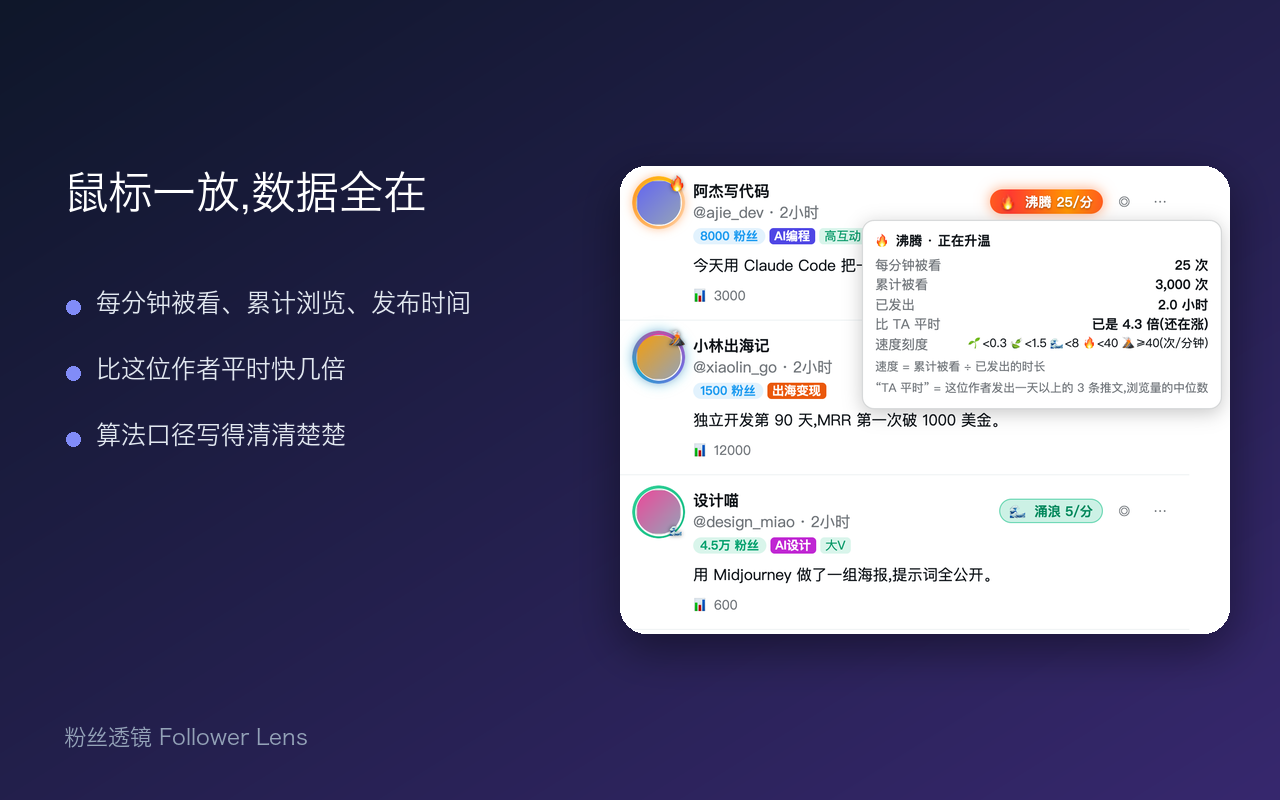
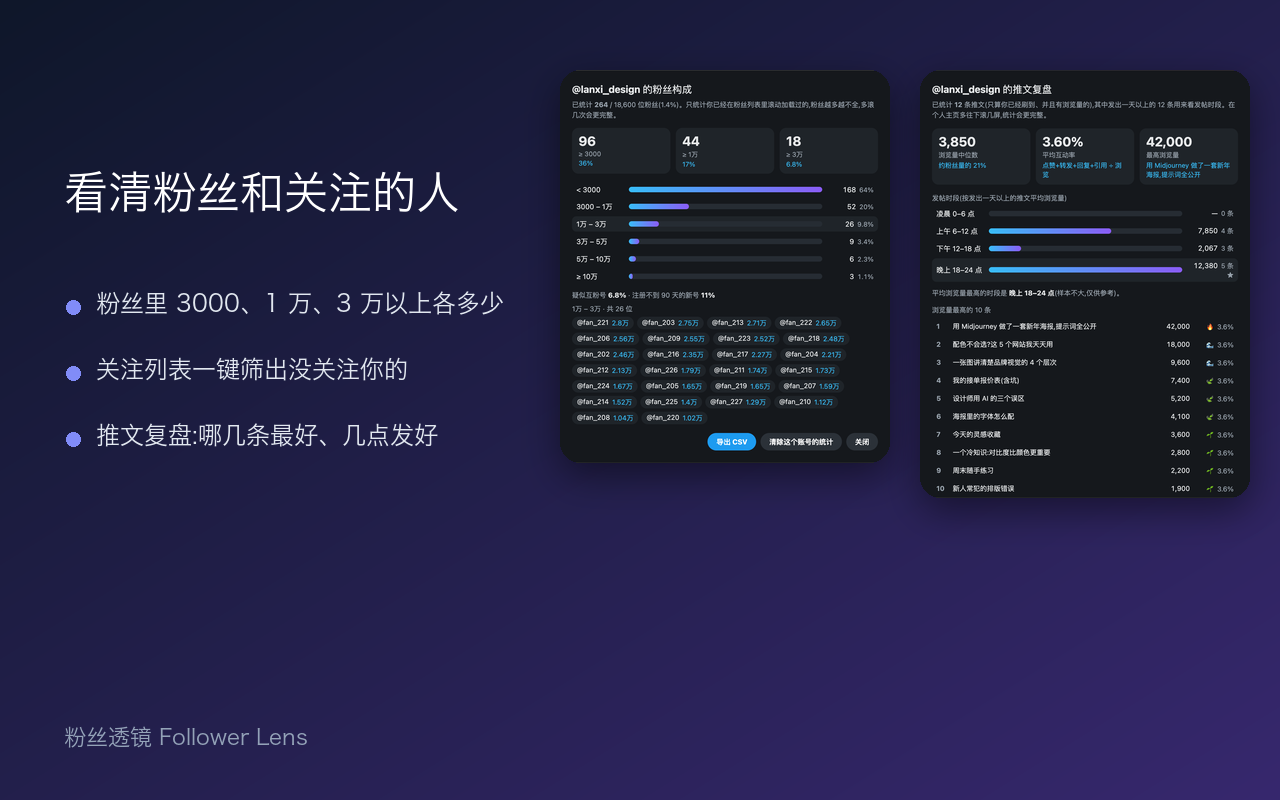
v0.22.1: 通知页的新粉丝信息放到通知下面一行(不动 X 自己的版式);商店材料同步(摘要、说明、隐私/权限理由、第 3/5 张截图);填表助手改成由 listing.md 生成;.gitignore 忽略安装包

diff --git a/store/上架填表助手.html b/store/上架填表助手.html
@@ -17,15 +17,15 @@ code{background:rgba(127,127,127,.15);padding:1px 6px;border-radius:5px;font-siz
 
 <div class="step"><h2><span>1</span>打开后台,上传安装包</h2>
 <ol><li>点这里打开:<a href="https://chrome.google.com/webstore/devconsole" target="_blank">Chrome 应用商店开发者后台</a>(确认登录的是 yaohongan2021 那个账号)</li>
-<li>如果后台已经有"粉丝透镜"(之前提交过 0.2.3):点进它 → 左侧 <b>"软件包"</b> → <b>"上传新软件包"</b>。<b>若状态是"审核中"就不能上传</b>,要等出结果,或先在状态旁撤回审核。没有就点 <b>"新增商品"</b></li>
-<li>把这个文件拖进去:<code>x-follower-lens-0.17.0.zip</code>(我已经在 Finder 里给你选中了,在 <code>x-follower-lens/dist</code> 文件夹)</li></ol></div>
+<li>如果后台已经有"粉丝透镜"(之前提交过旧版):点进它 → 左侧 <b>"软件包"</b> → <b>"上传新软件包"</b>。<b>若状态是"审核中"就不能上传</b>,要等出结果,或先在状态旁撤回审核。没有就点 <b>"新增商品"</b></li>
+<li>把这个文件拖进去:<code>x-follower-lens-0.22.1.zip</code>(就在这个文件夹里)</li></ol></div>
 
 <div class="step"><h2><span>2</span>"商品详情"页</h2><p class="hint">没有写到的格子,保持默认。</p>
 <div class="f"><div class="fh"><b>名称</b><button onclick="cp(0,this)">复制</button></div><pre id="v0"></pre></div><div class="f"><div class="fh"><b>摘要(简短说明)</b><button onclick="cp(1,this)">复制</button></div><pre id="v1"></pre></div><div class="f"><div class="fh"><b>详细说明(中文)</b><button onclick="cp(2,this)">复制</button></div><pre id="v2"></pre></div>
 <ul><li><b>类别</b>:选"工具"。<b>语言</b>:中文(简体)</li>
-<li><b>图标</b>:上传 <code>x-follower-lens/icons/icon128.png</code></li>
-<li><b>截图</b>(一次选 5 张):<code>x-follower-lens/store</code> 文件夹里的 <code>screenshot-1.png</code> 到 <code>screenshot-5.png</code></li>
-<li><b>小宣传图</b>:<code>x-follower-lens/store/promo-440x280.png</code></li></ul>
+<li><b>图标</b>:上传 <code>截图/icon128.png</code></li>
+<li><b>截图</b>(一次选 5 张):<code>截图</code> 文件夹里的 <code>screenshot-1.png</code> 到 <code>screenshot-5.png</code>(共 5 张,1280×800)</li>
+<li><b>小宣传图</b>:<code>截图/promo-440x280.png</code></li></ul>
 <div class="f"><div class="fh"><b>主页 URL</b><button onclick="cp(3,this)">复制</button></div><pre id="v3"></pre></div><div class="f"><div class="fh"><b>支持 URL</b><button onclick="cp(4,this)">复制</button></div><pre id="v4"></pre></div></div>
 
 <div class="step"><h2><span>3</span>"隐私规范"页 <small style="color:var(--muted)">(最容易卡住,仔细点)</small></h2>
@@ -41,7 +41,7 @@ code{background:rgba(127,127,127,.15);padding:1px 6px;border-radius:5px;font-siz
 <div class="warn">审核通常需要等一段时间,期间会发邮件到你的 Google 邮箱。被拒也很常见,把邮件里的拒绝原因发给我,我来改。</div></div>
 </main>
 <script>
-const V=["粉丝透镜 Follower Lens", "在 X 信息流里显示推文流速、头像流速环和内容方向标签,还能一键生成账号名片;同时显示粉丝数和质量标签。", "X 不直接显示别人的粉丝数,也看不出一条推文到底火没火。粉丝透镜把这些直接放到信息流里:\n\n【主要功能】\n• 推文流速:标出每条推文每分钟被看多少次,萌芽 / 起风 / 涌浪 / 沸腾 / 喷发 五档(如 🔥 沸腾 17/分),和账号粉丝多少无关,带 ↗↘ 升温降温趋势;鼠标放上去看累计浏览、发布多久,以及比这位作者平时快几倍\n• 头像流速环:作者头像按这条推文的流速加一圈环,每一档一个造型(默认静态,不晃眼;设置里可以让它转起来)\n• 内容方向标签:按账号简介和刷到的推文,标出这个博主主要做什么(AI编程、智能体、AI视频、AI设计、出海变现、投资……),每个方向一种颜色,词典可自定义\n• 账号名片:在个人主页一键生成带头像、主页地址和\"粉丝质量指数\"的图片,三种风格,可下载或复制后直接发到 X\n• 粉丝数徽标:信息流、关注列表、粉丝列表里,每个账号旁边直接显示粉丝数\n• 质量标签:互关 / 关注了你 / 大V / 高互动 / 低活跃 / 疑似互粉号 / 新号 / 老号\n• 悬停详情卡:精确粉丝数、关注数、粉丝/关注比、推文数、注册时间、互动率\n• 粉丝数变化:在你的浏览器本地记录你刷到过的账号,显示\"近 7 天涨了多少\"\n• 自适应布局:不遮挡时间、订阅按钮;头部太挤时自动换行;设置面板里每个功能都能单独开关\n\n【隐私】\n• 不收集、不上传、不出售任何数据,没有统计和广告代码\n• 只读取 X 网页自己已经收到的数据,不主动发出数据请求;唯一的例外:你点\"生成账号名片\"时会读取该账号的头像图片(来自 X 自己的图片服务器),只用于在本地画图\n• 设置和粉丝数历史只保存在你浏览器本地,可随时在设置面板里清除\n• 开源:https://github.com/yaohongan/x-follower-lens\n\n【说明】\n流速、标签和\"粉丝质量指数\"都是用公开数字做的估算,仅供参考,不代表内容或账号的质量。本扩展是个人开发的非官方工具,与 X Corp. 无关。X 改版后可能需要更新。", "https://github.com/yaohongan/x-follower-lens", "https://github.com/yaohongan/x-follower-lens/issues", "在 X(Twitter)网页上显示账号的粉丝数和质量标签,帮助用户判断账号。", "保存用户的设置(各开关、徽标位置)以及用户本地的粉丝数历史记录,用于显示\"近 7 天变化\"。数据只保存在本地,不上传。", "扩展只在 x.com 和 twitter.com 运行。它读取 X 网页自己已经收到的数据(用户名、粉丝数、关注数、注册时间、互动数),并在页面上显示徽标。不读取任何其它网站。", "扩展只在 x.com 和 twitter.com 运行。它读取 X 网页自己已经收到的数据(用户名、粉丝数、关注数、注册时间、浏览量、互动数),并在页面上显示徽标、流速标和头像环。用户点击\"生成账号名片\"时,会读取该账号的头像图片(来自 X 自己的图片服务器),只用于在本地画图。不读取任何其它网站。"];
+const V=["粉丝透镜 Follower Lens", "在 X 里显示推文流速、头像流速环、账号状态和内容方向标签;能分析粉丝构成、关注列表和推文表现,新粉丝大号高亮,还能一键生成账号名片;同时显示粉丝数和质量标签。", "X 不直接显示别人的粉丝数,也看不出一条推文到底火没火。粉丝透镜把这些直接放到信息流里:\n\n【主要功能】\n• 推文流速:标出每条推文每分钟被看多少次,萌芽 / 起风 / 涌浪 / 沸腾 / 喷发 五档(如 🔥 沸腾 17/分),和账号粉丝多少无关,带 ↗↘ 升温降温趋势;鼠标放上去看累计浏览、发布多久,以及比这位作者平时快几倍\n• 头像流速环:作者头像按这条推文的流速加一圈环,每一档一个造型(默认静态,不晃眼;设置里可以让它转起来)\n• 内容方向标签:按账号简介和刷到的推文,标出这个博主主要做什么(AI编程、智能体、AI视频、AI设计、出海变现、投资……),每个方向一种颜色,词典可自定义\n• 账号状态:鼠标放在徽标上,看这个账号有没有受保护、风险提示、认证类型等标记(只读页面自带数据)\n• 评论区标记:大 V 的回复高亮,低质量回复可选淡化\n• 新粉丝提醒:通知页里,每位新关注你的人旁边显示粉丝数和标签,大号高亮(只读页面里已有的通知数据)\n• 关注列表分析:在\"正在关注\"列表页按\"没关注你\"\"疑似互粉号\"\"新号\"等筛选、排序、导出 CSV(只统计你滚动加载过的,数据只存本地)\n• 推文复盘:个人主页上看这个账号你刷到过的推文——哪几条最好、什么时段发得最好(只用页面里已有的数据)\n• 粉丝构成:在\"关注者\"列表页统计粉丝里有多少人 3000 粉以上、1 万以上等,可导出 CSV(只统计你滚动加载过的,数据只存本地)\n• 账号名片:在个人主页一键生成带头像、主页地址和\"粉丝质量指数\"的图片,三种风格,可下载或复制后直接发到 X\n• 粉丝数徽标:信息流、关注列表、粉丝列表里,每个账号旁边直接显示粉丝数\n• 质量标签:互关 / 关注了你 / 大V / 高互动 / 低活跃 / 疑似互粉号 / 新号 / 老号\n• 悬停详情卡:精确粉丝数、关注数、粉丝/关注比、推文数、注册时间、互动率\n• 粉丝数变化:在你的浏览器本地记录你刷到过的账号,显示\"近 7 天涨了多少\"\n• 自适应布局:不遮挡时间、订阅按钮;头部太挤时自动换行;设置面板里每个功能都能单独开关\n\n【隐私】\n• 不收集、不上传、不出售任何数据,没有统计和广告代码\n• 只读取 X 网页自己已经收到的数据,不主动发出数据请求;唯一的例外:你点\"生成账号名片\"时会读取该账号的头像图片(来自 X 自己的图片服务器),只用于在本地画图\n• 设置、粉丝数历史,以及你滚动加载过的粉丝/关注列表统计,只保存在你浏览器本地,可随时在设置面板或统计面板里清除\n• 开源:https://github.com/yaohongan/x-follower-lens\n\n【说明】\n流速、标签和\"粉丝质量指数\"都是用公开数字做的估算,仅供参考,不代表内容或账号的质量。本扩展是个人开发的非官方工具,与 X Corp. 无关。X 改版后可能需要更新。", "https://github.com/yaohongan/x-follower-lens", "https://github.com/yaohongan/x-follower-lens/issues", "在 X(Twitter)网页上显示账号的粉丝数和质量标签,帮助用户判断账号。", "保存用户的设置(各开关、徽标位置),以及用户本地的粉丝数历史记录(用于显示\"近 7 天变化\")和用户滚动加载过的粉丝/关注列表的几个公开数字(粉丝数、关注数、注册时间,用于粉丝构成与关注列表分析)。数据只保存在本地,不上传,用户可在面板里清除或导出。", "扩展只在 x.com 和 twitter.com 运行。它读取 X 网页自己已经收到的数据(用户名、粉丝数、关注数、注册时间、互动数、账号状态标记、通知里的关注类型),并在页面上显示徽标、统计面板和标记。不读取任何其它网站。", "https://github.com/yaohongan/x-follower-lens/blob/main/PRIVACY.md"];
 V.forEach((v,i)=>{document.getElementById('v'+i).textContent=v});
 function cp(i,b){const t=V[i];const done=()=>{b.textContent='已复制 ✓';b.classList.add('ok');setTimeout(()=>{b.textContent='复制';b.classList.remove('ok')},1800)};
  if(navigator.clipboard&&window.isSecureContext){navigator.clipboard.writeText(t).then(done).catch(()=>fb(t,done))}else fb(t,done)}

diff --git a/content.js b/content.js
@@ -276,7 +276,7 @@
         matched.sort((x, y) => users.get(y).followers - users.get(x).followers);
       }
       const sig = matched.length ? matched.map((h) => h + ":" + users.get(h).followers).join(",") + "|" + line + "|" + settingsVer : "";
-      const old = a.querySelector(":scope .fl-notif-row");
+      const next = a.nextElementSibling, old = next && next.classList && next.classList.contains("fl-notif-row") ? next : null;   // 放在通知(article)下面一行,不去动 X 自己的版式
       if (!matched.length) { if (old) old.remove(); a.classList.remove("fl-notif-vip"); delete a.dataset.flN; continue; }
       if (old && a.dataset.flN === sig) continue;
       if (old) old.remove();
@@ -293,7 +293,8 @@
         row.append(item);
       }
       if (matched.length > 3) { const more = document.createElement("span"); more.className = "fl-notif-more"; more.textContent = `…还有 ${matched.length - 3} 位`; row.append(more); }
-      a.append(row);
+      row.classList.toggle("vip", vip);
+      a.insertAdjacentElement("afterend", row);
       a.classList.toggle("fl-notif-vip", vip);
       a.dataset.flN = sig;
     }

diff --git a/content.css b/content.css
@@ -346,3 +346,4 @@ html.fl-size-xl .fl-flow { font-size: 17px; line-height: 24px; padding: 5px 14px
 .fl-notif-more { opacity: 0.6; }
 .fl-notif-row .fl-tag.rel { display: none; }   /* 通知里本来就是"关注了你",不用再标一次 */
 article.fl-notif-vip { box-shadow: inset 3px 0 0 #f5b301; background: rgba(245, 179, 1, 0.07); }
+.fl-notif-row.vip { box-shadow: inset 3px 0 0 #f5b301; background: rgba(245, 179, 1, 0.07); }

diff --git a/tests/e2e_notif.py b/tests/e2e_notif.py
@@ -27,14 +27,14 @@ with sync_playwright() as p:
     ctx.route("https://x.com/notifications",lambda r:r.fulfill(status=200,content_type="text/html",body=HTML))
     errs=[]; pg=ctx.new_page(); pg.on("pageerror",lambda e:errs.append(str(e)))
     pg.goto("https://x.com/notifications"); pg.wait_for_timeout(2500)
-    S=lambda: pg.evaluate("[...document.querySelectorAll('article')].map(a=>({vip:a.classList.contains('fl-notif-vip'),row:a.querySelector('.fl-notif-row')?a.querySelector('.fl-notif-row').innerText.replace(/\\n/g,' '):null,items:a.querySelectorAll('.fl-notif-item').length,badges:a.querySelectorAll('.fl-notif-row .fl-badge').length}))")
+    S=lambda: pg.evaluate("[...document.querySelectorAll('article')].map(a=>({vip:a.classList.contains('fl-notif-vip'),row:(a.nextElementSibling&&a.nextElementSibling.classList.contains('fl-notif-row'))?a.nextElementSibling.innerText.replace(/\\n/g,' '):null,items:(a.nextElementSibling&&a.nextElementSibling.classList.contains('fl-notif-row'))?a.nextElementSibling.querySelectorAll('.fl-notif-item').length:0,badges:(a.nextElementSibling&&a.nextElementSibling.classList.contains('fl-notif-row'))?a.nextElementSibling.querySelectorAll('.fl-badge').length:0}))")
     s=S(); print(json.dumps(s,ensure_ascii=False)[:500])
     check("大号(5.2 万粉)关注了你:整条高亮,带「⭐ @bigguy」和粉丝数徽标",s[0]["vip"] and s[0]["row"] and "⭐ @bigguy" in s[0]["row"] and "5.2万 粉丝" in s[0]["row"],s[0]["row"])
     check("两位普通粉丝:都显示粉丝数,不高亮(3300 / 80 都没到 1 万)",(not s[1]["vip"]) and s[1]["items"]==2 and s[1]["badges"]==2 and "3300 粉丝" in s[1]["row"] and "80 粉丝" in s[1]["row"],s[1]["row"])
     check("点赞通知(那位有 7 万粉)不是关注:没有任何标记",s[2]["row"] is None and not s[2]["vip"],s[2])
     check("同一个大号(@bigguy)后来又点了赞:那条点赞通知(第 5 条)不标记,只有关注通知才标",s[4]["row"] is None and not s[4]["vip"],s[4])
     check("一次关注了 5 个人:最多显示 3 位,其余写「…还有 2 位」,按粉丝数从多到少排",s[3]["items"]==3 and "还有 2 位" in s[3]["row"] and s[3]["row"].index("bigguy")<s[3]["row"].index("x3"),s[3]["row"])
-    pg.hover('article:nth-of-type(1) .fl-notif-row .fl-badge'); pg.wait_for_timeout(300)
+    pg.hover('.fl-notif-row .fl-badge'); pg.wait_for_timeout(300)
     tip=pg.evaluate("(()=>{const t=document.getElementById('fl-tip');return t&&t.style.display!=='none'?t.innerText:null})()")
     check("鼠标放在新粉丝的徽标上:出现详情卡(账号状态栏等)",tip and "@bigguy" in tip and "账号状态" in tip,tip and tip[:60])
     pg.mouse.move(2,2)

diff --git a/store/build_helper.py b/store/build_helper.py
@@ -1,0 +1,51 @@
+"""用 store/listing.md 重新生成「上架填表助手.html」。
+运行:python3 store/build_helper.py <输出文件夹> <安装包文件名>
+把 listing.md 里的文字抽出来,填进助手页里的复制框;截图/图标路径指向输出文件夹里的「截图」子文件夹。"""
+import re, json, sys, os
+
+HERE = os.path.dirname(os.path.abspath(__file__))
+out_dir = sys.argv[1]
+zipname = sys.argv[2]
+L = open(os.path.join(HERE, "listing.md"), encoding="utf-8").read()
+
+
+def block_after(marker):
+    i = L.index(marker)
+    a = L.index("```", i) + 3
+    b = L.index("```", a)
+    return L[a:b].strip("\n")
+
+
+def line_after(marker):
+    i = L.index(marker) + len(marker)
+    return L[i:].lstrip("\n").split("\n", 1)[0].strip()
+
+
+def row(prefix):
+    for l in L.split("\n"):
+        if l.startswith(prefix):
+            return l.split("|")[2].strip()
+    raise KeyError(prefix)
+
+
+V = [
+    "粉丝透镜 Follower Lens",
+    line_after("**摘要(Summary,≤132 字符)**"),
+    block_after("**详细说明(Description,中文)**"),
+    "https://github.com/yaohongan/x-follower-lens",
+    "https://github.com/yaohongan/x-follower-lens/issues",
+    block_after("**单一用途说明(Single purpose)**"),
+    row("| storage |"),
+    row("| 内容脚本"),
+    block_after("**隐私政策 URL**"),
+]
+
+h = open(os.path.join(HERE, "上架填表助手.html"), encoding="utf-8").read()
+h = re.sub(r"const V=\[.*?\];\n", lambda m: "const V=" + json.dumps(V, ensure_ascii=False) + ";\n", h, count=1, flags=re.S)
+h = re.sub(r"<code>x-follower-lens-[\d.]+\.zip</code>(.*?)</li>", f"<code>{zipname}</code>(就在这个文件夹里)</li>", h, count=1)
+h = h.replace("(之前提交过 0.2.3)", "(之前提交过旧版)")
+h = h.replace("<code>x-follower-lens/icons/icon128.png</code>", "<code>截图/icon128.png</code>")
+h = h.replace("<code>x-follower-lens/store</code> 文件夹里的 <code>screenshot-1.png</code> 到 <code>screenshot-5.png</code>", "<code>截图</code> 文件夹里的 <code>screenshot-1.png</code> 到 <code>screenshot-5.png</code>(共 5 张,1280×800)")
+h = h.replace("<code>x-follower-lens/store/promo-440x280.png</code>", "<code>截图/promo-440x280.png</code>")
+open(os.path.join(out_dir, "上架填表助手.html"), "w", encoding="utf-8").write(h)
+print("ok", len(V))
